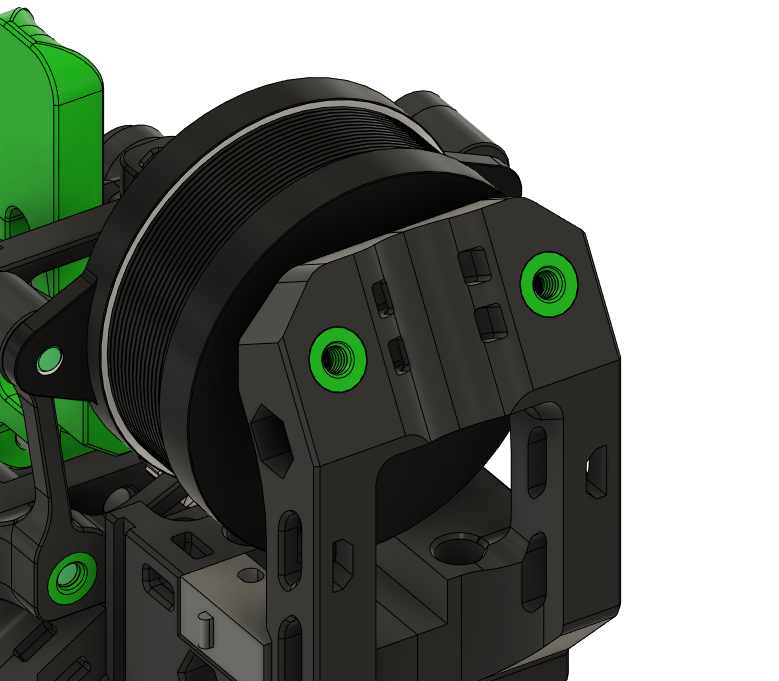
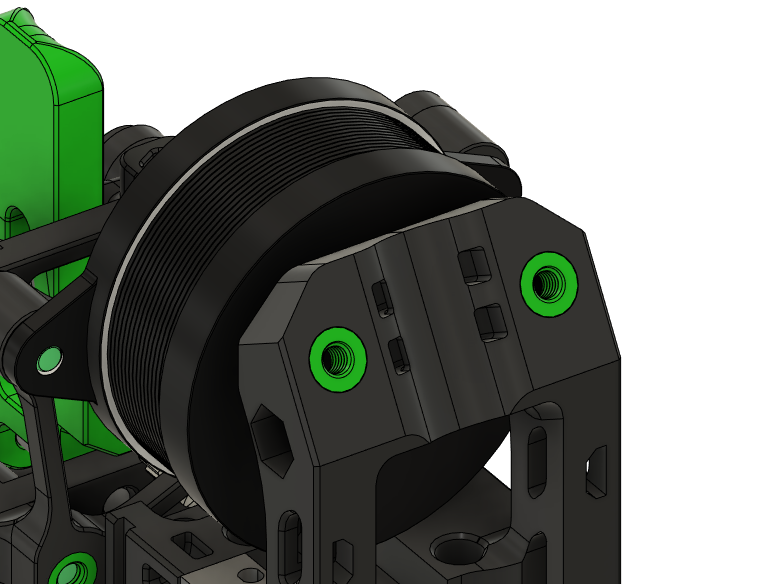
Yet even more image fixes...

diff --git a/Toolheads/EdwardYeeks_Voron0/README.md b/Toolheads/EdwardYeeks_Voron0/README.md
@@ -8,7 +8,7 @@ This is Beta 1 release of the V0 toolhead to mount the Sherpa Mini Extruder as a
 - New umbilical strain relief with options to use a printed clamp that screws together or zipties. Compared to the previous versions, this provides a lot more support as well as much more room to work with. The 30° angle forwards provides more bending radius for the umbilical cable when the toolhead is at Y max/rear.
 
 <p align="center">
-  <img width="500" height="500" src="./Images/ziptie_strain_relief.png">
+  <img width="600" height="450" src="./Images/ziptie_strain_relief.png">
 </p>
 
 - More ziptie points as well as small tweaks to make them less prone to breaking.
